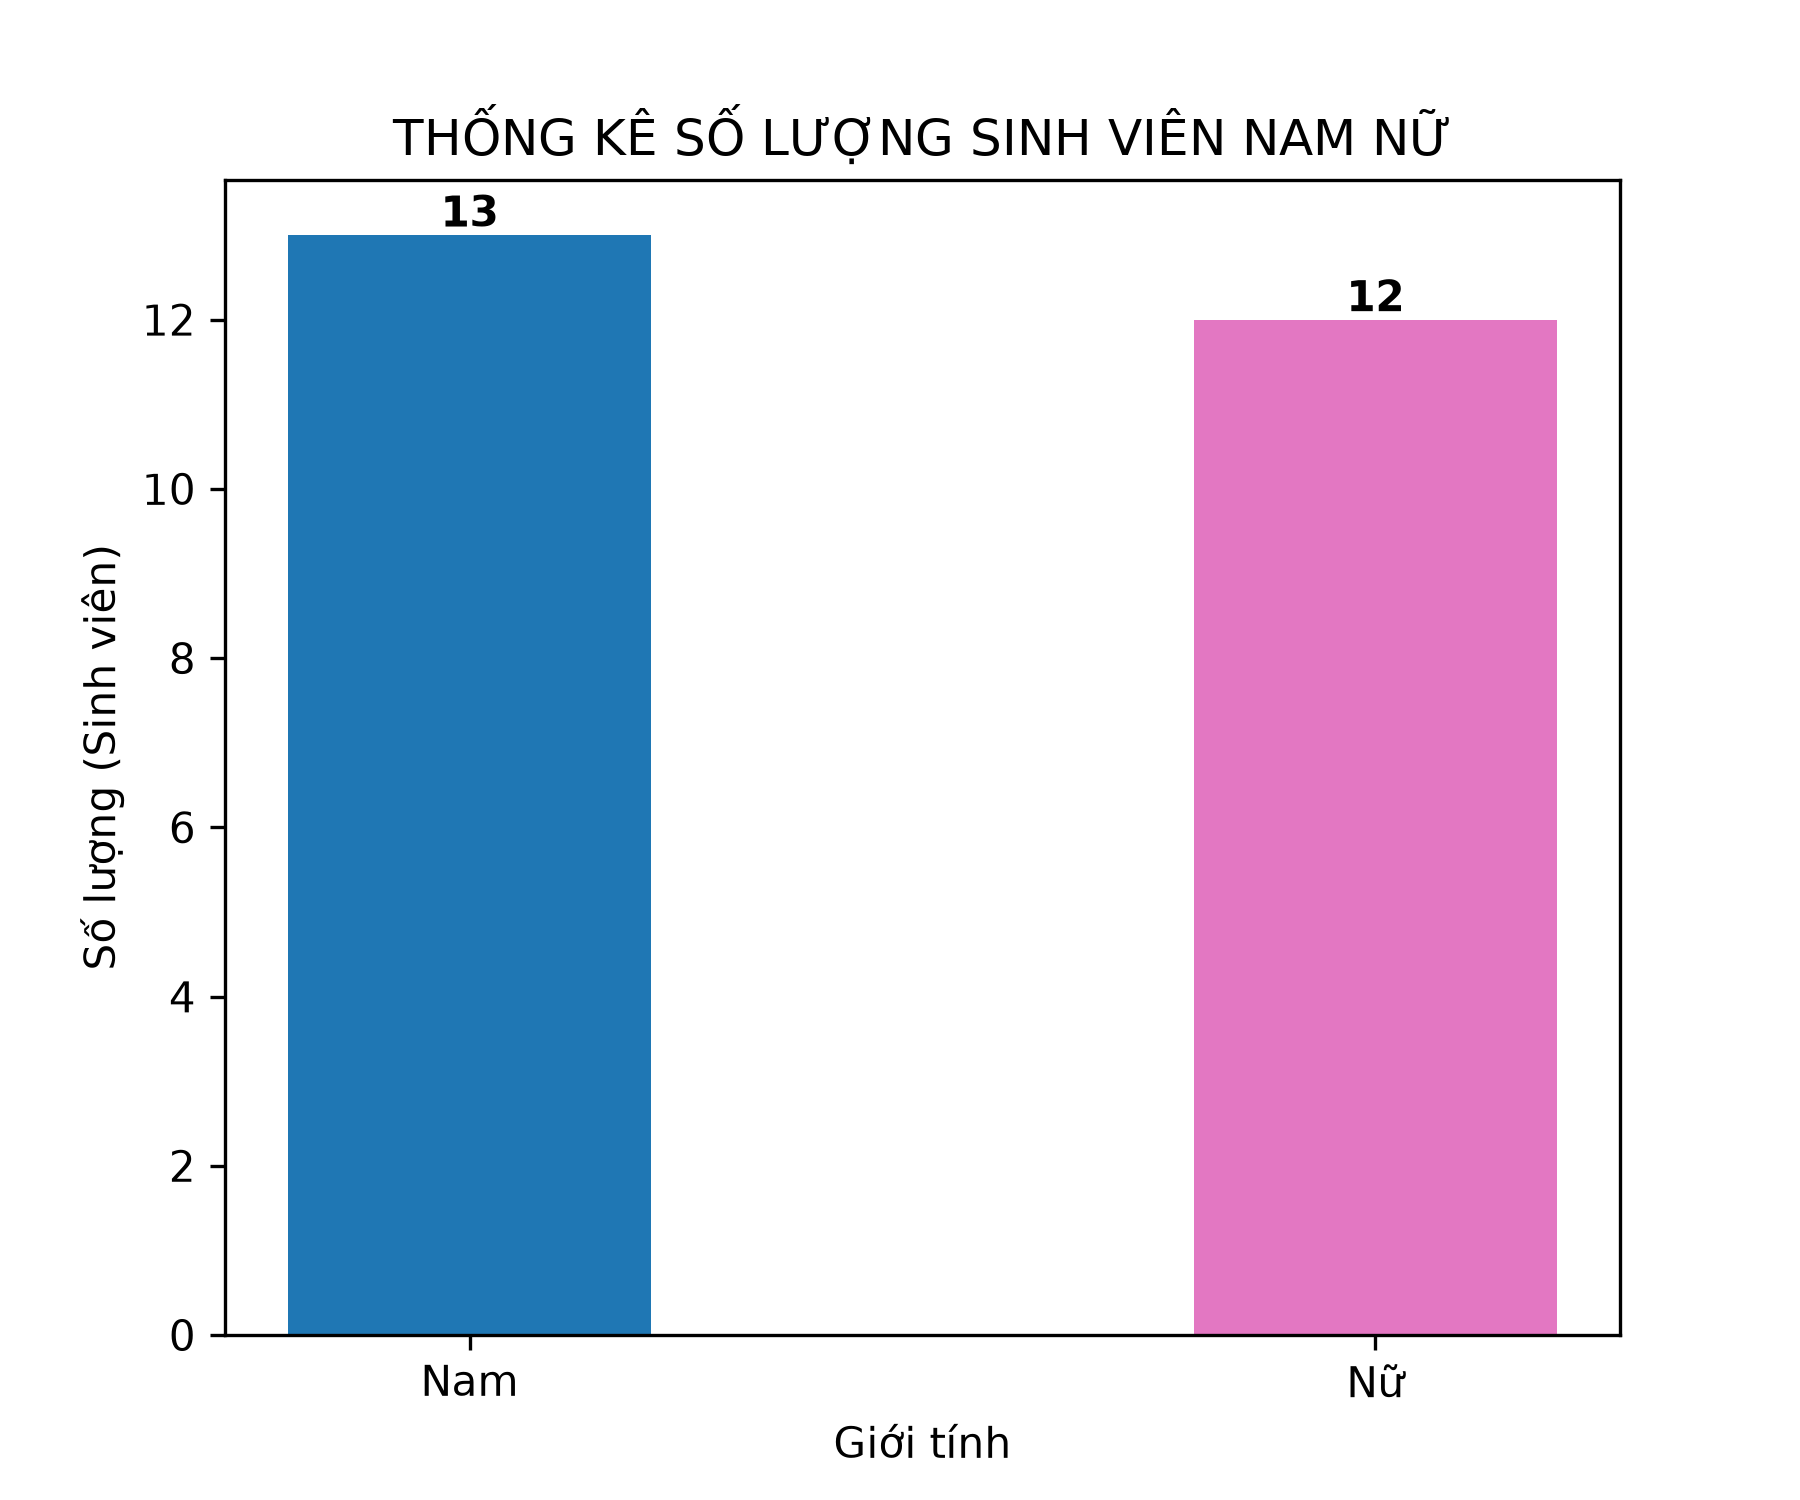
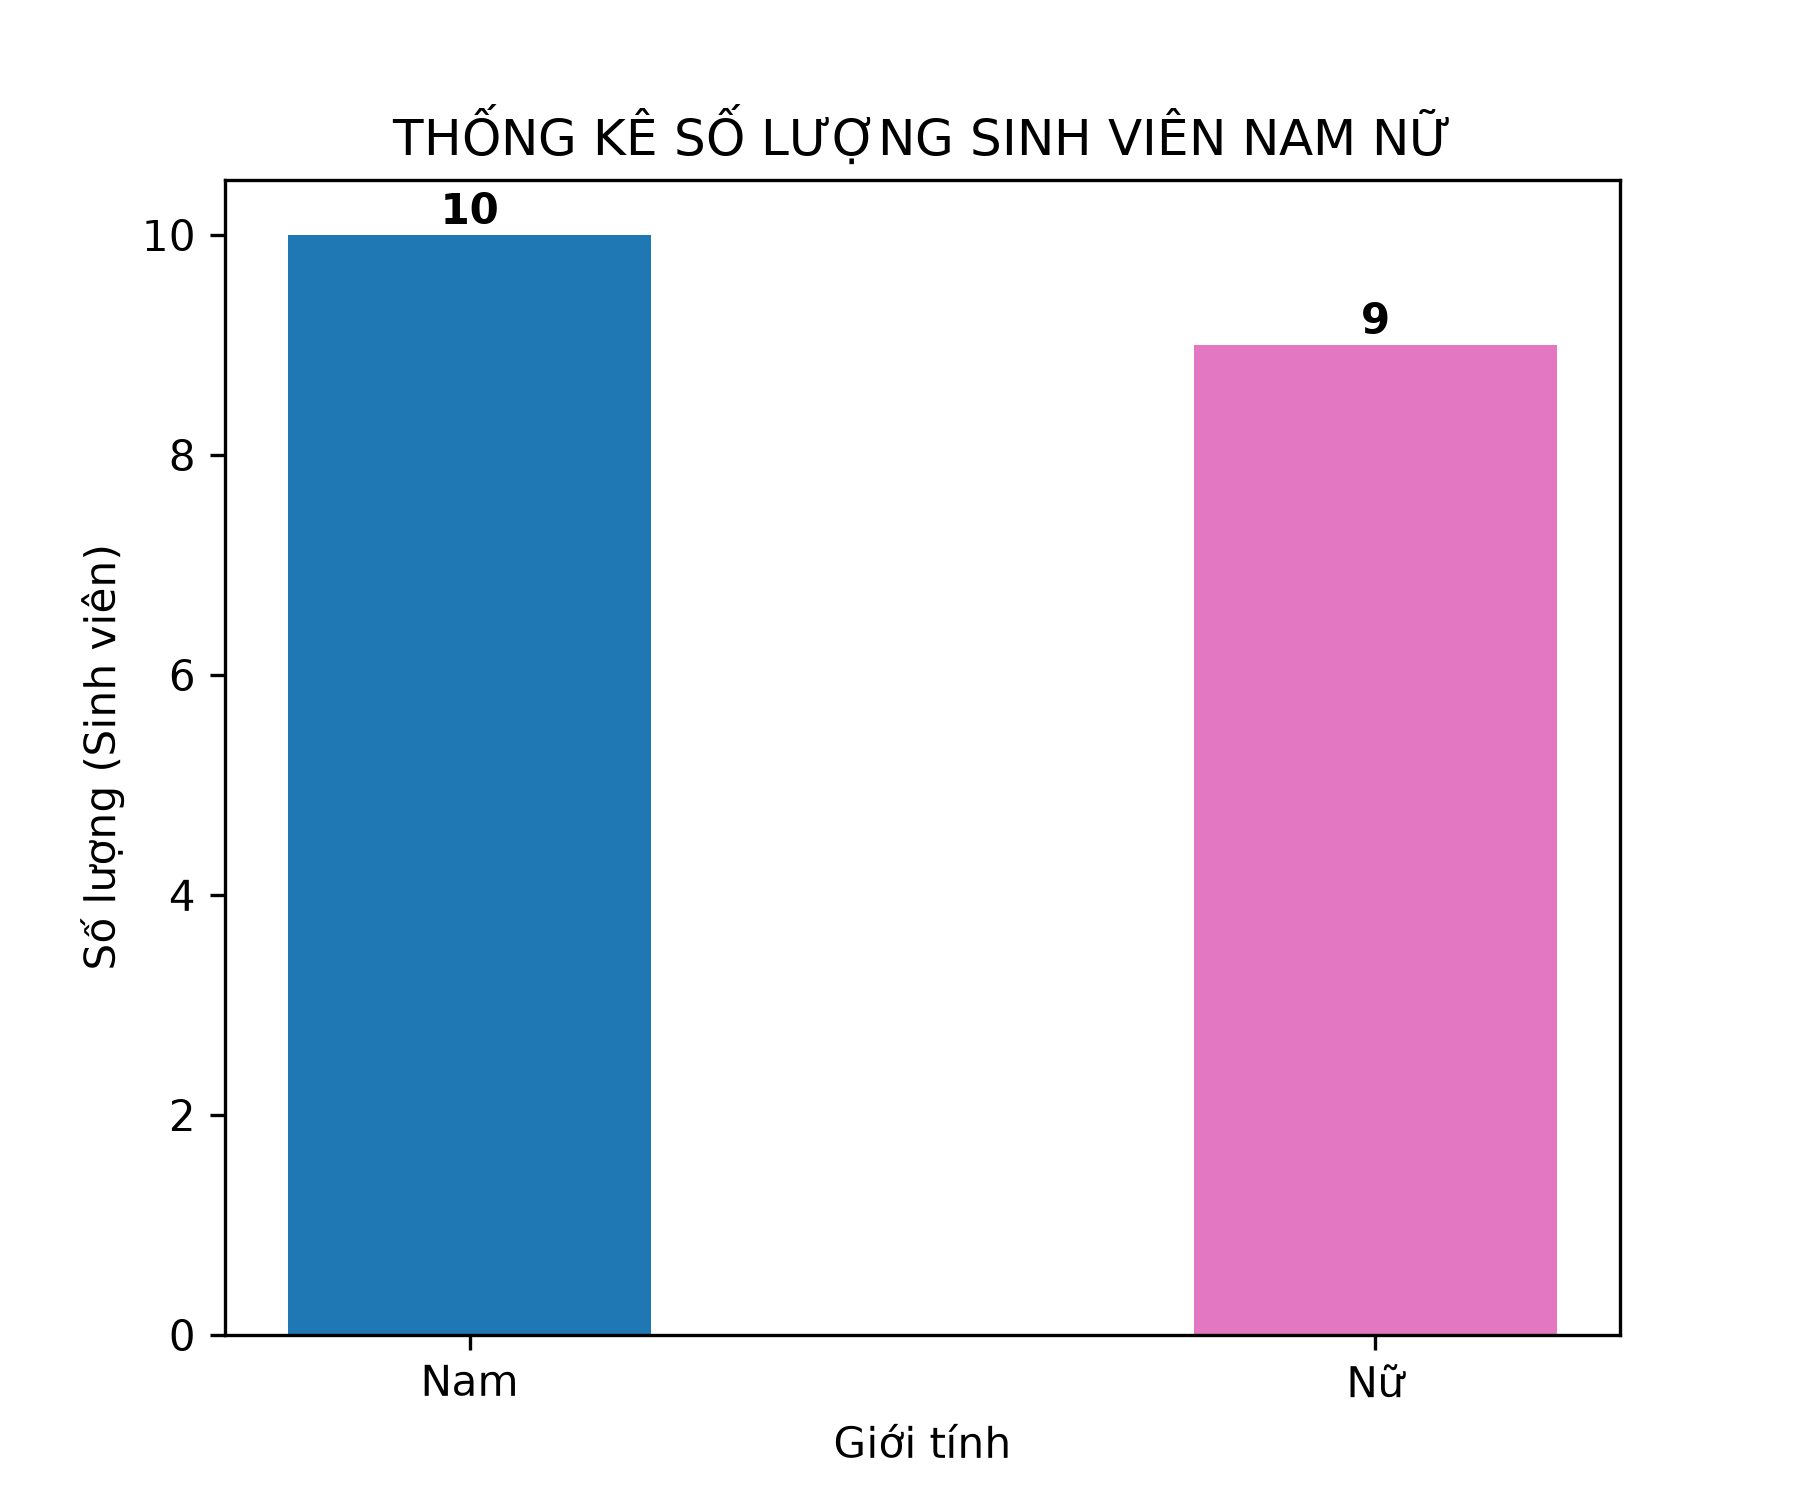
them mot vai thu

diff --git a/test.py b/test.py
@@ -24,4 +24,3 @@ for i, val in enumerate(quantities):
 # Lưu biểu đồ thành file ảnh
 plt.savefig('bieudo_nam_nu.png', dpi=300)
 print("Đã vẽ và lưu biểu đồ vào file bieudo_nam_nu.png thành công!")
->>>>>>> a881dc3 (khoi tao va cap nhat ma nguon)
